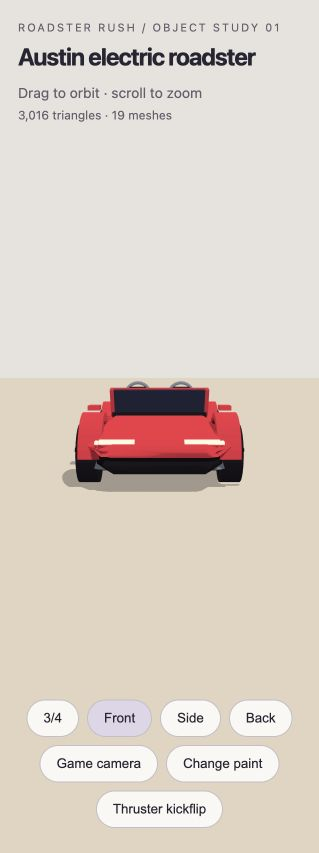
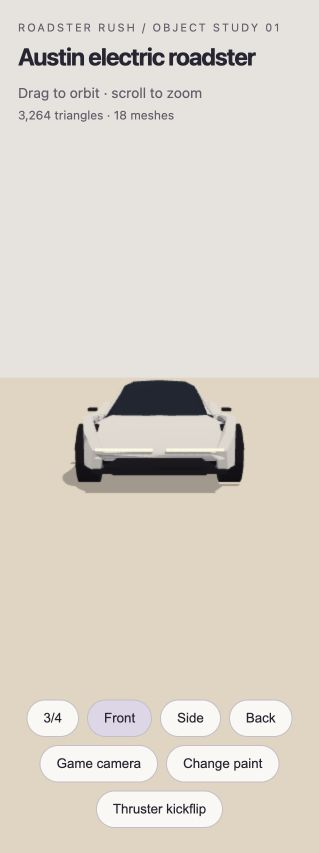
Art: rebuild roadster around approved wedge and canopy reference

Changed region(s): [[0.2257, 0.4267, 0.79, 0.5791], [0.0846, 0.1219, 0.5361, 0.1524], [0.1975, 0.5487, 0.2257, 0.5791]]

diff --git a/art/mockups/01-player-roadster/roadster.ts b/art/mockups/01-player-roadster/roadster.ts
@@ -16,8 +16,8 @@ export function buildRoadster(color = '#e8344e'): RoadsterParts {
   const group = new THREE.Group(); group.name = 'AustinRoadster';
   const paint = new THREE.MeshToonMaterial({ color });
   const dark = new THREE.MeshToonMaterial({ color: '#1b1b22' });
-  const glass = new THREE.MeshToonMaterial({ color: '#2b2f4a' });
-  const cabin = new THREE.MeshToonMaterial({ color: '#b88f5a' });
+  const glass = new THREE.MeshToonMaterial({ color: '#202737' });
+
   const metal = new THREE.MeshToonMaterial({ color: '#8993a7' });
   const light = new THREE.MeshToonMaterial({ color: '#f4e9d8', emissive: '#f4e9d8', emissiveIntensity: 0.4 });
   const brake = new THREE.MeshToonMaterial({ color: '#ff4860', emissive: '#ff4860', emissiveIntensity: 0.6 });
@@ -37,7 +37,8 @@ export function buildRoadster(color = '#e8344e'): RoadsterParts {
   function loft(rows:number[][], bottom:number) {
     const vertices:number[]=[]; const indices:number[]=[];
     for (const [z,w,h] of rows) {
-      for (const [x,y] of [[-w*.84,bottom],[-w,bottom+.07],[-w,h-.09],[-w*.76,h],[w*.76,h],[w,h-.09],[w,bottom+.07],[w*.84,bottom]]) vertices.push(x,y,z);
+      const base=Math.min(bottom,h-.11);
+      for (const [x,y] of [[-w*.84,base],[-w,base+.07],[-w,h-.09],[-w*.76,h],[w*.76,h],[w,h-.09],[w,base+.07],[w*.84,base]]) vertices.push(x,y,z);
     }
     for(let r=0;r<rows.length-1;r++) for(let j=0;j<8;j++) {
       const a=r*8+j,b=r*8+(j+1)%8,c=b+8,d=a+8;
@@ -47,52 +48,82 @@ export function buildRoadster(color = '#e8344e'): RoadsterParts {
     for(let i=0;i<indices.length;i+=3) [indices[i+1],indices[i+2]]=[indices[i+2],indices[i+1]];
     const g=new THREE.BufferGeometry(); g.setAttribute('position',new THREE.Float32BufferAttribute(vertices,3));g.setIndex(indices);g.computeVertexNormals();return g;
   }
-  // Lower center tub leaves tires exposed; independent fender shells have real arch cutouts.
-  add(loft([[-1.6,.54,.42],[-1.4,.64,.47],[1.37,.64,.48],[1.57,.54,.44]],.20),dark);
-  add(loft([[-1.65,.57,.47],[-1.46,.72,.56],[-.98,.73,.64],[-.48,.67,.69]],.37),paint);
-  add(loft([[.68,.69,.68],[1.04,.78,.73],[1.46,.72,.64],[1.61,.62,.56]],.40),paint);
+  // Revision 2: the approved reference's wedge and canopy proportions.
+  // Continuous side skins with wheel cutouts replace the separate raised fender rings.
+  add(loft([[-1.65,.54,.37],[-1.4,.58,.47],[1.38,.58,.48],[1.63,.55,.38]],.20),dark);
+  add(loft([[-1.65,.63,.45],[-1.39,.73,.56],[-.98,.77,.70],[-.57,.73,.70]],.64),paint);
+  add(loft([[.73,.73,.71],[1.06,.79,.73],[1.45,.74,.64],[1.65,.64,.55]],.59),paint);
+
+  const skin=new THREE.Shape();
+  skin.moveTo(-1.65,.44);
+  for(const [z,y] of [[-1.4,.60],[-1.05,.72],[-.6,.71],[.28,.72],[1.05,.76],[1.45,.66],[1.65,.54],[1.60,.25],[1.375,.25]]) skin.lineTo(z,y);
+  // Follow each arch from its rear bottom edge, over the wheel, toward the nose.
+  for(const z of [1.02,-1.02]) {
+    skin.lineTo(z+.355,.32);
+    for(let i=0;i<=24;i++){const a=i*Math.PI/24;skin.lineTo(z+Math.cos(a)*.355,.32+Math.sin(a)*.355);}
+    skin.lineTo(z-.355,.25);
+  }
+  skin.lineTo(-1.60,.25);skin.closePath();
   for(const side of [-1,1]) {
-    // Doors / sill form the cockpit rim without filling the cabin.
-    box(.18,.32,1.23,paint,side*.67,.48,.12);
-    box(.19,.09,1.35,dark,side*.68,.27,.12);
-    for(const z of [-1.02,1.02]) {
-      const shape=new THREE.Shape();
-      const radius=.355, outer=.445;
-      shape.moveTo(-outer,0);
-      for(let i=0;i<=16;i++){const a=Math.PI-i*Math.PI/16;shape.lineTo(Math.cos(a)*outer,Math.sin(a)*outer);}
-      shape.lineTo(radius,0);
-      for(let i=0;i<=16;i++){const a=i*Math.PI/16;shape.lineTo(Math.cos(a)*radius,Math.sin(a)*radius);}
-      shape.closePath();
-      const g=new THREE.ExtrudeGeometry(shape,{depth:.24,bevelEnabled:false,steps:1,curveSegments:1});
-      g.rotateY(Math.PI/2);add(g,paint,side<0?-.83:.59,.32,z);
+    const g=new THREE.ExtrudeGeometry(skin,{depth:.10,bevelEnabled:false,steps:1});
+    // Shape local X is longitudinal Z, extrusion local Z becomes lateral X.
+    g.rotateY(-Math.PI/2);
+    const widths=[[-1.65,.65],[-1.4,.77],[-1.05,.83],[-.6,.79],[.28,.79],[1.05,.83],[1.45,.78],[1.65,.65]];
+    const pos=g.attributes.position;
+    for(let i=0;i<pos.count;i++){
+      const z=pos.getZ(i);let w=.65;
+      for(let k=0;k<widths.length-1;k++)if(z>=widths[k][0]&&z<=widths[k+1][0]){
+        const t=(z-widths[k][0])/(widths[k+1][0]-widths[k][0]);w=THREE.MathUtils.lerp(widths[k][1],widths[k+1][1],t);break;
+      }
+      pos.setX(i,pos.getX(i)+side*(w-.83));
     }
-    // Distinct two-piece headlamps rather than the reference car's full-width face.
-    box(.35,.045,.05,light,side*.42,.515,-1.57);
-    box(.09,.03,.13,light,side*.60,.50,-1.49);
-    box(.25,.035,.035,brake,side*.43,.505,1.62);
-    box(.14,.055,.20,paint,side*.79,.77,-.36);
+    g.computeVertexNormals();add(g,paint,side<0?-.73:.83,0,0);
+    box(.15,.055,1.25,dark,side*.73,.25,0);
+    box(.14,.065,1.30,paint,side*.69,.675,.05);
+    box(.56,.025,.035,light,side*.345,.45,-1.662);
+    box(.50,.025,.035,brake,side*.345,.515,1.662);
+    // Short camera pod / mirror, no oversized detached stalk.
+    box(.10,.035,.14,dark,side*.81,.75,-.38);
   }
-  // Cockpit with visible two seats, center console, tilted windscreen.
-  box(1.12,.08,1.12,dark,0,.39,.13);
-  box(1.12,.16,.16,dark,0,.64,-.43);
-  box(1.12,.31,.025,glass,0,.85,-.48,-.45);
-  box(1.17,.045,.04,paint,0,.99,-.41);
-  for(const x of [-.56,.56]) box(.045,.35,.04,paint,x,.84,-.48,-.45);
-  for(const x of [-.30,.30]) {
-    box(.40,.10,.40,cabin,x,.48,.17);
-    box(.40,.39,.12,cabin,x,.69,.43,-.12);
-    box(.23,.16,.13,dark,x,.91,.47,-.12);
-    // Solid rear buttress with a broad silver roll hoop.
-    add(loft([[.49,.16,.77],[.64,.18,.91],[.94,.17,.76]],.64).translate(x,0,0),paint);
-    const hoop=new THREE.TorusGeometry(.17,.024,5,12,Math.PI);add(hoop,metal,x,.88,.56);
+  // Roof, windshield and side glazing are one uninterrupted faceted canopy.
+  const canopyRows=[[-.69,.63,.705,.695],[-.24,.51,1.045,.705],[.13,.50,1.095,.71],[.51,.52,1.02,.715],[.99,.65,.755,.73]];
+  // Shoulder surfaces close the gap between the narrow canopy and wide door skins.
+  for(const side of [-1,1]) {
+    const vertices:number[]=[];const indices:number[]=[];
+    canopyRows.forEach(([z,w,_top,base],i)=>{
+      const outer=[.79,.79,.79,.80,.83][i];
+      vertices.push(side*w,base-.004,z,side*(outer-.015),[.705,.71,.72,.735,.75][i],z);
+    });
+    for(let i=0;i<4;i++){
+      const a=i*2;indices.push(a,a+2,a+1,a+1,a+2,a+3);
+    }
+    if(side<0)for(let i=0;i<indices.length;i+=3)[indices[i+1],indices[i+2]]=[indices[i+2],indices[i+1]];
+    const shoulder=new THREE.BufferGeometry();shoulder.setAttribute('position',new THREE.Float32BufferAttribute(vertices,3));shoulder.setIndex(indices);shoulder.computeVertexNormals();add(shoulder,paint);
   }
-  box(.13,.20,.60,dark,0,.50,.12);
-  add(new THREE.TorusGeometry(.13,.025,6,16).rotateX(-.42),dark,-.30,.76,-.22);
-  box(.11,.026,.025,metal,-.30,.76,-.22);
-  // Rear bridge lamp and compact diffuser fins; no badges or text.
-  box(.62,.028,.034,brake,0,.53,1.62);
-  box(1.13,.12,.08,dark,0,.31,1.56);
-  for(const x of [-.44,-.22,0,.22,.44]) box(.022,.11,.22,dark,x,.27,1.48);
+  const cp:number[]=[];const ci:number[]=[];
+  for(const [z,w,top,base] of canopyRows) {
+    for(const [x,y] of [[-w,base],[-w*.94,top-.085],[-w*.67,top-.018],[0,top],[w*.67,top-.018],[w*.94,top-.085],[w,base]]) cp.push(x,y,z);
+  }
+  for(let r=0;r<canopyRows.length-1;r++)for(let j=0;j<6;j++){
+    const a=r*7+j,b=a+1,c=a+7,d=c+1;ci.push(a,c,b,b,c,d);
+  }
+  const canopy=new THREE.BufferGeometry();canopy.setAttribute('position',new THREE.Float32BufferAttribute(cp,3));canopy.setIndex(ci);canopy.computeVertexNormals();add(canopy,glass);
+  function strut(a:THREE.Vector3,b:THREE.Vector3,r:number,m:THREE.Material){
+    const axis=b.clone().sub(a);const g=new THREE.CylinderGeometry(r,r,axis.length(),6);
+    g.applyQuaternion(new THREE.Quaternion().setFromUnitVectors(new THREE.Vector3(0,1,0),axis.normalize()));
+    const center=a.clone().add(b).multiplyScalar(.5);add(g,m,center.x,center.y,center.z);
+  }
+  // Thin painted roof rails and rear pillars frame the dark canopy.
+  for(const side of [-1,1]){
+    const rail=[new THREE.Vector3(side*.63,.70,-.69),new THREE.Vector3(side*.48,.963,-.24),new THREE.Vector3(side*.47,1.013,.13),new THREE.Vector3(side*.489,.938,.51),new THREE.Vector3(side*.65,.735,.99)];
+    for(let j=0;j<rail.length-1;j++)strut(rail[j],rail[j+1],.017,paint);
+    strut(new THREE.Vector3(side*.51,.72,.50),new THREE.Vector3(side*.489,.938,.51),.011,dark);
+    // Rear shoulder ridge provides a clear silhouette from the chase camera.
+    strut(new THREE.Vector3(side*.66,.74,.92),new THREE.Vector3(side*.73,.65,1.44),.024,paint);
+  }
+  box(1.3,.04,.12,dark,0,.235,-1.61);
+  box(1.15,.13,.08,dark,0,.32,1.63);
+  for(const x of [-.44,-.22,0,.22,.44]) box(.025,.10,.19,dark,x,.27,1.58);
   const thrusters:THREE.Object3D[]=[];
   for(const x of [-.57,.57]) for(const z of [-1.28,1.28]) {
     add(new THREE.CylinderGeometry(.095,.12,.09,12),metal,x,.25,z);
@@ -111,11 +142,11 @@ export function buildRoadster(color = '#e8344e'): RoadsterParts {
   for(const x of [-.76,.76])for(const z of [-1.02,1.02]) {
     const wheel=new THREE.Group();wheel.name=`wheel_${x<0?'L':'R'}_${z<0?'front':'rear'}`;
     wheel.position.set(x,.32,z);
-    const tire=new THREE.Mesh(new THREE.CylinderGeometry(.32,.32,.22,24,1).rotateZ(Math.PI/2),dark);
-    const face=new THREE.Mesh(new THREE.CylinderGeometry(.235,.235,.012,12).rotateZ(Math.PI/2),metal);
+    const tire=new THREE.Mesh(new THREE.CylinderGeometry(.32,.32,.22,40,1).rotateZ(Math.PI/2),dark);
+    const face=new THREE.Mesh(new THREE.CylinderGeometry(.235,.235,.012,24).rotateZ(Math.PI/2),metal);
     face.position.x=Math.sign(x)*.116;
-    const spokes:THREE.BufferGeometry[]=[new THREE.CylinderGeometry(.075,.075,.018,12).rotateZ(Math.PI/2)];
-    for(let j=0;j<5;j++) spokes.push(new THREE.BoxGeometry(.014,.18,.042).translate(0,.12,0).rotateX(j*Math.PI*2/5));
+    const spokes:THREE.BufferGeometry[]=[new THREE.CylinderGeometry(.075,.075,.018,24).rotateZ(Math.PI/2)];
+    for(let j=0;j<5;j++) spokes.push(new THREE.BoxGeometry(.014,.17,.085).translate(0,.125,0).rotateX(j*Math.PI*2/5+.2));
     const hub=new THREE.Mesh(mergeGeometries(spokes),dark);spokes.forEach(g=>g.dispose());hub.position.x=Math.sign(x)*.127;
     wheel.add(tire,face,hub);tire.castShadow=true;group.add(wheel);wheels.push(wheel);
   }

diff --git a/art/mockups/01-player-roadster/preview.ts b/art/mockups/01-player-roadster/preview.ts
@@ -9,18 +9,18 @@ const scene=new THREE.Scene();scene.background=new THREE.Color('#e7e3de');
 scene.add(new THREE.HemisphereLight('#fff4e5','#605875',1.7));
 const sun=new THREE.DirectionalLight('#fff2dd',1.8);sun.position.set(-3,7,-5);sun.castShadow=true;
 sun.shadow.mapSize.set(2048,2048);sun.shadow.camera.left=-5;sun.shadow.camera.right=5;sun.shadow.camera.top=5;sun.shadow.camera.bottom=-5;sun.shadow.normalBias=.025;scene.add(sun);
-const car=buildRoadster();scene.add(car.group);
+const car=buildRoadster('#d7dbe2');scene.add(car.group);
 const floor=new THREE.Mesh(new THREE.PlaneGeometry(200,200),new THREE.MeshToonMaterial({color:'#d8d3d0'}));floor.rotation.x=-Math.PI/2;floor.position.y=-.008;floor.receiveShadow=true;scene.add(floor);
 const camera=new THREE.PerspectiveCamera(32,1,.05,200);
 const controls=new OrbitControls(camera,canvas);controls.target.set(0,.5,0);controls.maxPolarAngle=Math.PI*.49;controls.minDistance=3;controls.maxDistance=18;controls.enableDamping=true;
 const road=new THREE.Group();road.visible=false;scene.add(road);
 const asphalt=new THREE.Mesh(new THREE.PlaneGeometry(6,90),new THREE.MeshToonMaterial({color:'#4a4458'}));asphalt.rotation.x=-Math.PI/2;asphalt.position.set(0,.002,-25);asphalt.receiveShadow=true;road.add(asphalt);
 for(const x of [-1,1])for(let z=-65;z<12;z+=3){const line=new THREE.Mesh(new THREE.PlaneGeometry(.05,1.3),new THREE.MeshBasicMaterial({color:'#f4e9d8'}));line.rotation.x=-Math.PI/2;line.position.set(x,.008,z);road.add(line);}
-const views:Record<string,number[]>={'three-quarter':[4,2.8,-5],front:[0,1.2,-6.5],side:[6.8,1.2,0],back:[0,1.4,6.5],gameplay:[0,4.6,7.6]};
+const views:Record<string,number[]>={'three-quarter':[4,1.8,-5],front:[0,1.2,-6.5],side:[6.8,1.2,0],back:[0,1.4,6.5],gameplay:[0,4.6,7.6]};
 function view(name:string){const v=views[name]??views['three-quarter'];camera.position.set(v[0],v[1],v[2]);controls.target.set(0,name==='gameplay'?0:.50,name==='gameplay'?-2:0);road.visible=name==='gameplay';controls.update();}
 view(new URLSearchParams(location.search).get('view')??'three-quarter');
 document.querySelectorAll<HTMLButtonElement>('[data-view]').forEach(b=>b.onclick=()=>view(b.dataset.view!));
-let paintIndex=0;document.querySelector<HTMLButtonElement>('#paint')!.onclick=()=>car.paint.color.set(['#4382b8','#b3ee48','#f4e9d8','#8056b8','#e8344e'][paintIndex++%5]);
+let paintIndex=0;document.querySelector<HTMLButtonElement>('#paint')!.onclick=()=>car.paint.color.set(['#e8344e','#4382b8','#b3ee48','#8056b8','#d7dbe2'][paintIndex++%5]);
 // Preview only: bounded particle pool. Geometry/material are allocated once.
 const puffMat=new THREE.MeshBasicMaterial({color:'#ffffff',transparent:true,opacity:.38,depthWrite:false});
 const puffs=new THREE.InstancedMesh(new THREE.IcosahedronGeometry(1,0),puffMat,64);puffs.instanceMatrix.setUsage(THREE.DynamicDrawUsage);puffs.frustumCulled=false;scene.add(puffs);
@@ -34,6 +34,6 @@ let triangles=0,meshes=0;car.group.traverse(o=>{if(o instanceof THREE.Mesh){tria
 document.querySelector('#stats')!.textContent=`${triangles.toLocaleString()} triangles · ${meshes} meshes`;
 function resize(){renderer.setSize(innerWidth,innerHeight,false);camera.aspect=innerWidth/innerHeight;camera.zoom=Math.min(1,camera.aspect/1.1);camera.updateProjectionMatrix();}addEventListener('resize',resize);resize();
 function frame(now:number){const dt=Math.min((now-last)/1000,.05);last=now;if(jump>=0){const prev=jump;jump+=dt;const t=Math.min(jump/1.8,1);car.group.position.y=2.4*4*t*(1-t);const roll=THREE.MathUtils.smoothstep(t,.2,.78);car.group.rotation.z=roll*Math.PI*2;if(prev<.35&&jump>=.35)burst();if(t>=1){car.group.position.y=0;car.group.rotation.z=0;jump=-1;burst();}}
- particles.forEach((p,i)=>{p.age+=dt;p.pos.addScaledVector(p.vel,dt);dummy.position.copy(p.pos);dummy.scale.setScalar(p.age<.65?.045+p.age*.32:0);dummy.updateMatrix();puffs.setMatrixAt(i,dummy.matrix);});puffs.instanceMatrix.needsUpdate=true;
+ particles.forEach((p,i)=>{p.age+=dt;p.pos.addScaledVector(p.vel,dt);if(p.pos.y<.045){p.pos.y=.045;p.vel.y=.15;p.vel.x+=Math.sign(p.pos.x)*dt*3;}dummy.position.copy(p.pos);dummy.scale.setScalar(p.age<.65?.045+p.age*.32:0);dummy.updateMatrix();puffs.setMatrixAt(i,dummy.matrix);});puffs.instanceMatrix.needsUpdate=true;
  controls.update();renderer.render(scene,camera);requestAnimationFrame(frame);
 }requestAnimationFrame(frame);

diff --git a/art/mockups/01-player-roadster/notes.md b/art/mockups/01-player-roadster/notes.md
@@ -1,5 +1,7 @@
 # Player roadster — procedural object study
 
+**Current version: Revision 2 below. Revision 1 details are historical.**
+
 ## Revision 1 — November 9, 2026
 
 Ofir rejected the earlier #42 mockups, requested Roadster photo and thruster-stunt references, then explicitly requested a 3D object in the project's format. This study follows that direct instruction. It is not an approval of #42 or completion of the full #14 paint-variant brief (currently on hold pending style selection).
@@ -48,3 +50,20 @@ TypeScript strict check passed for both TS files using the installed compiler. B
 - https://www.youtube.com/watch?v=r5vsHHPVhJg
 
 References informed low nose/open-cockpit sports-car cues and the thruster animation concept; the model is an original stylized car per AGENTS.md, not an exact Tesla model.
+
+
+## Revision 2 — approved photo silhouette
+
+Ofir confirmed the specific front three-quarter photo shown in chat as the reference for the rebuild:
+https://images.autoexpress.co.uk/autoexpress/2026/10/New%20Tesla%20Roadster.jpg?w=1260&h=710&fit=crop&q=75&auto=format%2Ccompress&dpr=1
+Source gallery: https://www.autoexpress.co.uk/tesla/roadster/370689/new-tesla-roadster-revealed-2026-pictures
+
+The photo was opened and visually inspected before this revision. Revision 1 had used general descriptive cues without matching a specific photo; Ofir rejected its likeness. The previous broad reference claim should not be interpreted as a photo-matched model.
+
+Rebuilt the silhouette around a low wedge nose, continuous dark canopy, angular shoulder panels and enclosed wheels. Removed the separate fender rings, exposed seats and roll hoops. Added longitudinally tapered side skins with wheel cutouts, shoulder surfaces joining the canopy, broad aero wheel spokes, and slim paired lamps. This remains a simplified original interpretation without logos or exact reproduction. The closed canopy follows Ofir's confirmed reference and departs from the older open-top brief; Claude should reconcile that direction with driver visibility before integration.
+
+Current geometry: **3,264 triangles / 18 meshes / 6 shared materials**. Native Three.js/TypeScript, same CarParts-compatible API, four separate wheel groups, four downward thruster sockets. Default builder paint remains #e8344e; preview starts in silver #d7dbe2 for comparison with the photo. Canopy is now #202737. Removed the upholstery material; other trim, lamp and wheel colors are unchanged.
+
+Replaced front/side/back/three-quarter/gameplay PNGs with actual renders of Revision 2. `detail.png` is a tighter screenshot of the silver model; `red.png` shows the project's red paint. Gameplay image is 450×975. All images remain under 2 MB.
+
+Preview has a lower front three-quarter camera, updated paint cycle, and vapor that spreads along the ground. Strict TypeScript check passed. Visually inspected front, side, rear, three-quarter and gameplay views; exercised paint change and jump. Full-game integration/performance are still untested. CarStyle overlays/plate and honk transform concerns from Revision 1 still apply. The opaque canopy means an interior driver head will no longer be visible: resolve this in the asset review rather than silently cutting a hole into the chosen silhouette.

diff --git a/agents/codex/NOTES.md b/agents/codex/NOTES.md
@@ -22,3 +22,12 @@
 - #14's latest prior comment holds it pending #42. This is a directly requested object study, not completion of that held brief. Handoff includes CarStyle overlay, driver position, collision-fit and honk-transform integration concerns.
 - Strict TypeScript check passed; browser views, paint change and jump/landing inspected. Preview server on 127.0.0.1:5174 for this session.
 - Board query still fails `unknown owner type`; use comment-only handoff per COLLAB.md §3.
+
+
+## November 9, 2026 — Revision 2 after explicit reference approval
+
+- Ofir rejected the first procedural object for not looking like the Roadster. Acknowledged that Revision 1 was built from broad descriptions, not a specific inspected photo.
+- Opened the actual Auto Express `New Tesla Roadster.jpg` front three-quarter photo in the browser and displayed it in chat. Ofir said yes to that specific design reference.
+- Rebuilt owned `01-player-roadster` object: integrated fenders, tapered wedge nose, closed dark canopy, aero wheels. 3,264 triangles / 18 meshes / 6 materials; silver preview, red default builder. Refreshed screenshots, added red and tight detail views.
+- Current user preference is the approved canopy silhouette; old open-top/visible-driver brief needs reconciliation by Claude. No claim of final art approval or full-game integration.
+- Strict TypeScript and browser inspection passed; source is still an isolated object study under art/mockups. Existing unrelated changes remain untouched.
